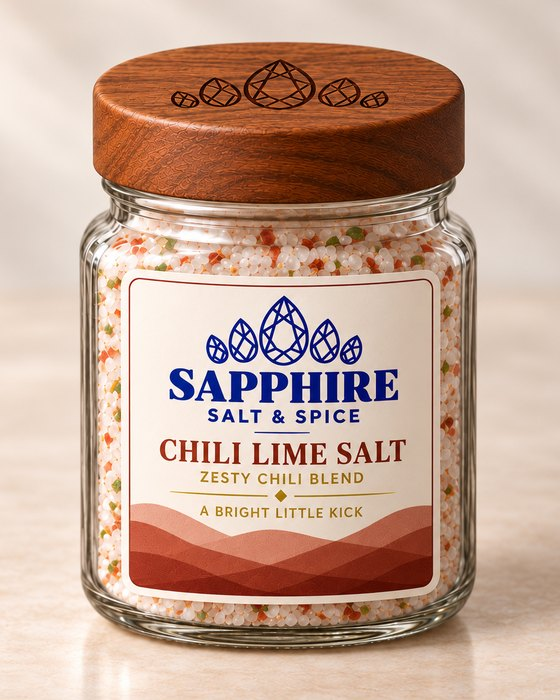
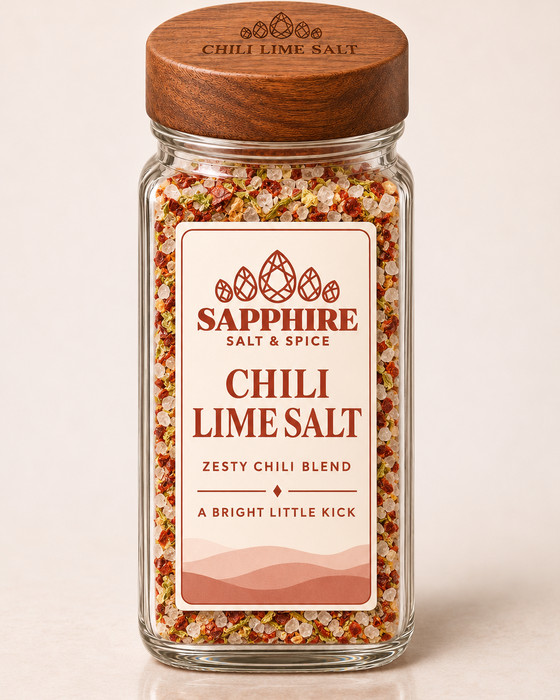
ChatGPT's 3 Nov images: seasoning jars, ingredient scenes, menu photos, Hydrate flavors (PR #37)

diff --git a/js/app.js b/js/app.js
@@ -1,4 +1,4 @@
-window.IMGV = {"fan.jpg":"4bd20a24","sapphire-crystal-macro.png":"56379ecd","belly-bliss-card.jpg":"2682bc25","belly-bliss-packets.jpg":"99d8fccb","soon-pepper-medley.jpg":"69950200","pure-packets-card.jpg":"514a77be","gut-health-card.jpg":"cbf2130e","stick-restore.png":"d8d4c3a2","lid-etch.jpg":"540cd5e7","gut-health-sticks-card.jpg":"fa1860d2","belly-bliss-pair.jpg":"4a7832e3","restore-packets-card.jpg":"0640d8fe","soon-onion-powder.jpg":"5f27d977","ingredient-hero.jpg":"582d3d5f","lifestyle-avocado.jpg":"b108546f","soon-sweet-paprika.jpg":"090bf87a","pure-family.jpg":"2946f8b1","lifestyle-eggs.jpg":"da37c9de","soon-white-pepper.jpg":"0316aa06","hydrate-sticks.jpg":"f5563ac3","gut-health-family.jpg":"6e67ff0e","gut-health-pair.jpg":"ed1980f8","soon-pink-pepper.jpg":"a677f5e0","stand-blank.jpg":"e0f1c63f","kindness-card.jpg":"5f1976d1","hydrate-card.jpg":"43647c4e","soon-garlic.jpg":"18ed38af","soon-turmeric.jpg":"0265d0bd","pure-sticks-card.jpg":"02b219b8","restore-16oz.jpg":"570e5e21","logo-ss-stacked.png":"ff12e03b","refill-bulk.jpg":"cfefb6bf","giftbox.jpg":"3b233c64","caddy-card.jpg":"71f1cfd9","logo-ss-primary-gold.png":"022cc007","hydrate-pair.jpg":"9cf61681","soon-cinnamon.jpg":"ce8c6148","soon-truffle.jpg":"1abe84d5","apple-touch-icon.png":"19c18a29","soon-thyme.jpg":"817f7ab3","seasonings-crop.jpg":"9672862a","pure-sticks.jpg":"c9d2ac9c","crest-twotone.png":"d2446251","awaken-packets-card.jpg":"5b4b9317","seasonings-stand.jpg":"cf44b1fe","packet-hydrate.png":"ba79c3d2","hydrate-family.jpg":"256feff2","gut-health-sticks.jpg":"0cbc6205","soon-jalapeno.jpg":"3dd07c7b","soon-bay-leaves.jpg":"db9c0c11","soon-green-pepper.jpg":"fc230225","pure-16oz.jpg":"e4f33979","tiara-gold.png":"794e6e5c","set-16oz.jpg":"63f27cf3","stand-crop.jpg":"ffd07277","soon-ancho.jpg":"69529dc2","soon-smoked.jpg":"60441619","hydrate-4oz.jpg":"f8396b8c","fan-card.jpg":"bed2c539","soon-cumin.jpg":"4c6bc6af","soon-chili-lime.jpg":"26c60e06","logo-ss-primary.png":"2cd1fef4","soon-chipotle.jpg":"9aafce66","jar-holes.png":"28b1f05a","gut-health-packets.jpg":"128b955e","hero-stand.jpg":"3786e927","belly-bliss-packets-card.jpg":"a3749ab3","soon-citrus.jpg":"72d3935c","pallet.jpg":"f8aa1f46","packet-pure.png":"a79821d8","packet-awaken.png":"97d2a352","himalayan-pair.jpg":"82f3c714","restore-family.jpg":"23c195dd","awaken-pair.jpg":"1dc5426b","lifestyle-steak.jpg":"c58aa8d1","belly-bliss-sticks.jpg":"9fd1f641","pure-4oz.jpg":"613a0902","logo-white.png":"354016ef","australian-ocean-salt-detail.png":"34a71558","hydrate-packets.jpg":"dd3552da","stand-rear.jpg":"6f8a9608","leaf-shadow.png":"08bfeffb","stick-gut-health.png":"fa33d30e","refill-card.jpg":"a37bc902","favicon.png":"854864cd","soon-chili-powder.jpg":"80e823f5","gut-health-16oz.jpg":"7867e404","stick-belly-bliss.png":"e28f9cb0","soon-nutmeg.jpg":"d91d976d","awaken-card.jpg":"c025203e","packet-belly-bliss.png":"32b3cc9a","packaging-family-concept.jpg":"8869a472","stick-pure.png":"a5c6fa41","gut-health-packets-card.jpg":"4c24a9ec","pure-packets.jpg":"8e65265a","stick-hydrate.png":"41464cc2","logo-ss-primary-white.png":"d4a9b6b4","awaken-sticks.jpg":"413a8f65","belly-bliss-16oz.jpg":"999fd9cb","crest-navy.png":"89b06876","logo-ss-horizontal-white.png":"5b114f74","hydrate-sticks-card.jpg":"b3a81c63","utah-salt-pair.jpg":"ebb8fdff","belly-bliss-family.jpg":"d291fa5c","restore-sticks.jpg":"d69cda8e","sticks-card.jpg":"399f40aa","restore-pair.jpg":"2d805988","packet-restore.png":"7070f8b2","packet-gut-health.png":"517ea7f1","belly-bliss-sticks-card.jpg":"b9648dcc","restore-card.jpg":"7cf79049","hero-stand.json":"fda03603","crest-gold.png":"5e410528","giftcard.jpg":"4e9885c3","packets-band.jpg":"185e73f7","soon-cayenne.jpg":"43d739c4","awaken-6oz.jpg":"a5dd50c0","soon-crushed-red.jpg":"865e21c7","belly-bliss-4oz.jpg":"3e3ec429","awaken-solo.jpg":"00e95b9b","hydrate-16oz.jpg":"0e763460","awaken-family.jpg":"ece35424","soon-garden-herb.jpg":"31f651b4","soon-smoked-paprika.jpg":"ebe69424","pale-mineral-slab.png":"9abe724d","logo-twotone.png":"6dc98eb1","set-4oz.jpg":"6686b4ed","jar-holes-seasonings.png":"4b431384","pure-pair.jpg":"7c42955a","restore-packets.jpg":"b4939101","restore-4oz.jpg":"0bfee9c9","restore-sticks-card.jpg":"ceffe775","himalayan-pink-salt-macro.png":"770a7157","soon-ember-steak.jpg":"c4d34d90","crest-white.png":"eda292f5","giftbox-card.jpg":"9771f1df","awaken-packets.jpg":"f35db4ba","soon-ginger.jpg":"37c760fa","pure-card.jpg":"761f2cfd","spices-crop.jpg":"42b6c824","year-of-salt.jpg":"2e80303c","soon-awaken-pepper.jpg":"4f2590b5","utah-bonneville-overhead-texture.png":"51b4fe6a","tiara-white.png":"e21e0690","tiara-blue.png":"53de983b","soon-oregano.jpg":"4c256f0f","awaken-sticks-card.jpg":"272c19da","hydrate-packets-card.jpg":"74a64c1e","spices-stand.jpg":"fb20be6d","caddy.jpg":"301036b0","logo-green.png":"864eea5a","stand-blank3.jpg":"248af578","logo-ss-horizontal.png":"e4c3230e","soon-garlic-powder.jpg":"38677805","logo-navy.png":"1c46e4ff","stick-awaken.png":"2fda3b26","gut-health-4oz.jpg":"6d4d398b","ingredients/potassium-chloride.jpg":"1d71df9c","ingredients/psyllium-husk.jpg":"c7489dc0","ingredients/taurine.jpg":"51a12a8b","ingredients/l-citrulline.jpg":"64dd24ba","ingredients/golden-flax.jpg":"fe2061fb","ingredients/white-chia.jpg":"0a57886b","ingredients/acacia-fiber.jpg":"dcbc5a9c","ingredients/magnesium-glycinate.jpg":"2dffe126","ingredients/l-theanine.jpg":"9b52bc07","ingredients/l-glutamine.jpg":"72efd724","ingredients/tapioca-starch.jpg":"f285dd65","ingredients/magnesium-malate.jpg":"ac3bdcf2","ingredients/australian-sea-salt.jpg":"9a8058c2","future/steakhouse-kit.jpg":"e90d3554","future/coffee.jpg":"c636fca3","future/tote.jpg":"a5a2e606","future/salt-flakes.jpg":"d8230b2e","future/utah-honey.jpg":"d31b568a","future/salted-nuts.jpg":"4acadadd","future/hydrate-charge.jpg":"cfb6cf97","future/protein.jpg":"92e1ccf1","future/test-kitchen.jpg":"644cc783","future/olive-oil.jpg":"aab5e01b","future/capsules.jpg":"8dfd3206","future/walnut-shakers.jpg":"584f0e67","future/salt-cellar.jpg":"d9b73311","future/creatine.jpg":"b0365887","future/hydrate-drink.jpg":"d99a1b9b","future/cap.jpg":"2cc89eb6","future/hot-honey.jpg":"2df18db5","future/apron.jpg":"285e850c","future/cap-trucker.jpg":"fe8fa2ad","future/grinder.jpg":"305deb71","future/tea.jpg":"612934d5","future/trace-minerals.jpg":"19f9b85c"};
+window.IMGV = {"fan.jpg":"4bd20a24","sapphire-crystal-macro.png":"56379ecd","belly-bliss-card.jpg":"2682bc25","belly-bliss-packets.jpg":"99d8fccb","soon-pepper-medley.jpg":"69950200","pure-packets-card.jpg":"514a77be","gut-health-card.jpg":"cbf2130e","stick-restore.png":"d8d4c3a2","lid-etch.jpg":"540cd5e7","gut-health-sticks-card.jpg":"fa1860d2","belly-bliss-pair.jpg":"4a7832e3","restore-packets-card.jpg":"0640d8fe","soon-onion-powder.jpg":"5f27d977","ingredient-hero.jpg":"582d3d5f","lifestyle-avocado.jpg":"b108546f","soon-sweet-paprika.jpg":"090bf87a","pure-family.jpg":"2946f8b1","lifestyle-eggs.jpg":"da37c9de","soon-white-pepper.jpg":"0316aa06","hydrate-sticks.jpg":"f5563ac3","gut-health-family.jpg":"6e67ff0e","gut-health-pair.jpg":"ed1980f8","soon-pink-pepper.jpg":"a677f5e0","stand-blank.jpg":"e0f1c63f","kindness-card.jpg":"5f1976d1","hydrate-card.jpg":"43647c4e","soon-garlic.jpg":"dabde5be","soon-turmeric.jpg":"0265d0bd","pure-sticks-card.jpg":"02b219b8","restore-16oz.jpg":"570e5e21","logo-ss-stacked.png":"ff12e03b","refill-bulk.jpg":"cfefb6bf","giftbox.jpg":"3b233c64","caddy-card.jpg":"71f1cfd9","logo-ss-primary-gold.png":"022cc007","hydrate-pair.jpg":"9cf61681","soon-cinnamon.jpg":"ce8c6148","soon-truffle.jpg":"94cda160","apple-touch-icon.png":"19c18a29","soon-thyme.jpg":"817f7ab3","seasonings-crop.jpg":"9672862a","pure-sticks.jpg":"c9d2ac9c","crest-twotone.png":"d2446251","awaken-packets-card.jpg":"5b4b9317","seasonings-stand.jpg":"cf44b1fe","packet-hydrate.png":"ba79c3d2","hydrate-family.jpg":"256feff2","gut-health-sticks.jpg":"0cbc6205","soon-jalapeno.jpg":"3dd07c7b","soon-bay-leaves.jpg":"db9c0c11","soon-green-pepper.jpg":"fc230225","pure-16oz.jpg":"e4f33979","tiara-gold.png":"794e6e5c","set-16oz.jpg":"63f27cf3","stand-crop.jpg":"ffd07277","soon-ancho.jpg":"69529dc2","soon-smoked.jpg":"376bc961","soon-black-phoenix.jpg":"aa176cf3","hydrate-4oz.jpg":"f8396b8c","fan-card.jpg":"bed2c539","soon-cumin.jpg":"4c6bc6af","soon-chili-lime.jpg":"9783aaca","logo-ss-primary.png":"2cd1fef4","soon-chipotle.jpg":"9aafce66","jar-holes.png":"28b1f05a","gut-health-packets.jpg":"128b955e","hero-stand.jpg":"3786e927","belly-bliss-packets-card.jpg":"a3749ab3","soon-citrus.jpg":"2d9bd778","pallet.jpg":"f8aa1f46","packet-pure.png":"a79821d8","packet-awaken.png":"97d2a352","himalayan-pair.jpg":"82f3c714","restore-family.jpg":"23c195dd","awaken-pair.jpg":"1dc5426b","lifestyle-steak.jpg":"c58aa8d1","belly-bliss-sticks.jpg":"9fd1f641","pure-4oz.jpg":"613a0902","logo-white.png":"354016ef","australian-ocean-salt-detail.png":"34a71558","hydrate-packets.jpg":"dd3552da","stand-rear.jpg":"6f8a9608","leaf-shadow.png":"08bfeffb","stick-gut-health.png":"fa33d30e","refill-card.jpg":"a37bc902","favicon.png":"854864cd","soon-chili-powder.jpg":"80e823f5","gut-health-16oz.jpg":"7867e404","stick-belly-bliss.png":"e28f9cb0","soon-nutmeg.jpg":"d91d976d","awaken-card.jpg":"c025203e","packet-belly-bliss.png":"32b3cc9a","packaging-family-concept.jpg":"8869a472","stick-pure.png":"a5c6fa41","gut-health-packets-card.jpg":"4c24a9ec","pure-packets.jpg":"8e65265a","stick-hydrate.png":"41464cc2","logo-ss-primary-white.png":"d4a9b6b4","awaken-sticks.jpg":"413a8f65","belly-bliss-16oz.jpg":"999fd9cb","crest-navy.png":"89b06876","logo-ss-horizontal-white.png":"5b114f74","hydrate-sticks-card.jpg":"b3a81c63","utah-salt-pair.jpg":"ebb8fdff","belly-bliss-family.jpg":"d291fa5c","restore-sticks.jpg":"d69cda8e","sticks-card.jpg":"399f40aa","restore-pair.jpg":"2d805988","packet-restore.png":"7070f8b2","packet-gut-health.png":"517ea7f1","belly-bliss-sticks-card.jpg":"b9648dcc","restore-card.jpg":"7cf79049","hero-stand.json":"fda03603","crest-gold.png":"5e410528","giftcard.jpg":"4e9885c3","packets-band.jpg":"185e73f7","soon-cayenne.jpg":"43d739c4","awaken-6oz.jpg":"a5dd50c0","soon-crushed-red.jpg":"865e21c7","belly-bliss-4oz.jpg":"3e3ec429","awaken-solo.jpg":"00e95b9b","hydrate-16oz.jpg":"0e763460","awaken-family.jpg":"ece35424","soon-garden-herb.jpg":"d769901e","soon-smoked-paprika.jpg":"ebe69424","pale-mineral-slab.png":"9abe724d","logo-twotone.png":"6dc98eb1","set-4oz.jpg":"6686b4ed","jar-holes-seasonings.png":"4b431384","pure-pair.jpg":"7c42955a","restore-packets.jpg":"b4939101","restore-4oz.jpg":"0bfee9c9","restore-sticks-card.jpg":"ceffe775","himalayan-pink-salt-macro.png":"770a7157","soon-ember-steak.jpg":"f1c8fb56","crest-white.png":"eda292f5","giftbox-card.jpg":"9771f1df","awaken-packets.jpg":"f35db4ba","soon-ginger.jpg":"37c760fa","pure-card.jpg":"761f2cfd","spices-crop.jpg":"42b6c824","year-of-salt.jpg":"2e80303c","soon-awaken-pepper.jpg":"4f2590b5","utah-bonneville-overhead-texture.png":"51b4fe6a","tiara-white.png":"e21e0690","tiara-blue.png":"53de983b","soon-oregano.jpg":"4c256f0f","awaken-sticks-card.jpg":"272c19da","hydrate-packets-card.jpg":"74a64c1e","spices-stand.jpg":"fb20be6d","caddy.jpg":"301036b0","logo-green.png":"864eea5a","stand-blank3.jpg":"248af578","logo-ss-horizontal.png":"e4c3230e","soon-garlic-powder.jpg":"38677805","logo-navy.png":"1c46e4ff","stick-awaken.png":"2fda3b26","gut-health-4oz.jpg":"6d4d398b","menu/blends-spread.jpg":"1eee2eeb","menu/supplements-spread.jpg":"b9ce885f","menu/spices-spread.jpg":"c8af64d0","menu/seasonings-spread.jpg":"15e7869a","ingredients/potassium-chloride.jpg":"633163d3","ingredients/psyllium-husk.jpg":"c679006d","ingredients/taurine.jpg":"51a12a8b","ingredients/l-citrulline.jpg":"64dd24ba","ingredients/golden-flax.jpg":"741b4144","ingredients/white-chia.jpg":"1d077393","ingredients/acacia-fiber.jpg":"5bbf5af1","ingredients/magnesium-glycinate.jpg":"2dffe126","ingredients/l-theanine.jpg":"9b52bc07","ingredients/l-glutamine.jpg":"72efd724","ingredients/tapioca-starch.jpg":"b94af639","ingredients/magnesium-malate.jpg":"ac3bdcf2","ingredients/australian-sea-salt.jpg":"9a8058c2","scene/bay-leaves.jpg":"f5ba62af","scene/chili-lime.jpg":"af353c37","scene/nutmeg.jpg":"a8280958","scene/truffle.jpg":"dbd0f8ed","scene/thyme.jpg":"163ad7c8","scene/crushed-red.jpg":"a40d2262","scene/cumin.jpg":"82ea5558","scene/garden-herb.jpg":"a92635ae","scene/ancho.jpg":"92e0365b","scene/ginger.jpg":"979e8c8b","scene/ember-steak.jpg":"c8dec246","scene/awaken-pepper.jpg":"f142accc","scene/chili-powder.jpg":"89847f8b","scene/garlic-powder.jpg":"449c8c9e","scene/pepper-medley.jpg":"554d91e7","scene/pink-pepper.jpg":"925d5354","scene/smoked-paprika.jpg":"af05b0af","scene/sweet-paprika.jpg":"1312f2e8","scene/cayenne.jpg":"4caa7eca","scene/garlic.jpg":"d5ab772c","scene/cinnamon.jpg":"1e41e72d","scene/turmeric.jpg":"5631e71f","scene/green-pepper.jpg":"74a12f19","scene/oregano.jpg":"9935dad1","scene/smoked.jpg":"9756abd8","scene/jalapeno.jpg":"81d1e6b0","scene/black-phoenix.jpg":"1e2efde4","scene/onion-powder.jpg":"c8368896","scene/white-pepper.jpg":"51ea13ad","scene/citrus.jpg":"60c8bd66","scene/chipotle.jpg":"bdc6985b","future/steakhouse-kit.jpg":"e90d3554","future/coffee.jpg":"c636fca3","future/tote.jpg":"a5a2e606","future/salt-flakes.jpg":"d8230b2e","future/utah-honey.jpg":"d31b568a","future/hydrate-drink-berry.jpg":"803806ec","future/hydrate-drink-ruby-grapefruit.jpg":"6e240b1d","future/salted-nuts.jpg":"4acadadd","future/hydrate-charge.jpg":"cfb6cf97","future/protein.jpg":"92e1ccf1","future/test-kitchen.jpg":"644cc783","future/olive-oil.jpg":"aab5e01b","future/hydrate-drink-lime.jpg":"8ef2c160","future/capsules.jpg":"8dfd3206","future/walnut-shakers.jpg":"584f0e67","future/salt-cellar.jpg":"d9b73311","future/creatine.jpg":"b0365887","future/hydrate-drink.jpg":"9b7bf9c1","future/hydrate-drink-lemonade.jpg":"90c5c9cf","future/cap.jpg":"2cc89eb6","future/hot-honey.jpg":"2df18db5","future/apron.jpg":"285e850c","future/cap-trucker.jpg":"fe8fa2ad","future/hydrate-drink-watermelon-mint.jpg":"7217915f","future/grinder.jpg":"305deb71","future/tea.jpg":"612934d5","future/hydrate-drink-family.jpg":"37f9dbba","future/trace-minerals.jpg":"19f9b85c"};
 /* Sapphire Salt — shared layout, cart and page renderers */
 const $ = (s, el = document) => el.querySelector(s);
 const $$ = (s, el = document) => [...el.querySelectorAll(s)];
@@ -137,13 +137,13 @@ const MEGA = () => [   // built on first use: it needs helpers defined further d
   { title: 'Salt Blends', href: 'shop.html#blends-sec', items: BLENDS.filter(b => b.cat === 'blends').map(b => ({ name: b.name, sub: b.inside || b.tag, href: `product.html?p=${b.slug}`, stack: insideOf(b), ring: b.color })) },
   { title: 'Seasonings & Spices', href: 'shop.html#spices', items: [
       { name: 'Awaken Pepper', sub: 'Tellicherry peppercorns', href: 'product.html?p=awaken-pepper', img: 'img/soon-awaken-pepper.jpg', jar: true },
-      { name: 'Seasonings', sub: `${SEASONINGS.filter(x => x.cat === 'seasonings').length} flavored salts · soon`, href: 'shop.html#seasonings', grid: spread(['ember-steak', 'garden-herb', 'chili-lime', 'smoked']) },
-      { name: 'Spices', sub: `${SEASONINGS.filter(x => x.cat === 'spices').length - 1} more · soon`, href: 'shop.html#spices', grid: spread(['cayenne', 'turmeric', 'pink-pepper', 'green-pepper']) },
+      { name: 'Seasonings', sub: `${SEASONINGS.filter(x => x.cat === 'seasonings').length} flavored salts · soon`, href: 'shop.html#seasonings', img: 'img/menu/seasonings-spread.jpg', round: true },
+      { name: 'Spices', sub: `${SEASONINGS.filter(x => x.cat === 'spices').length - 1} more · soon`, href: 'shop.html#spices', img: 'img/menu/spices-spread.jpg', round: true },
       { name: 'Collect the shelf', sub: `Any 10, 20 or all ${SEASONINGS.length} · save up to 20%`, href: 'shop.html#collection', grid: spread(['chipotle', 'white-pepper', 'thyme', 'cinnamon']) },
       { name: 'Test Kitchen', sub: 'Taste it first · $3', href: 'product.html?p=test-kitchen', color: '#315B91' }] },
   { title: 'Hydration & Supplements', href: 'shop.html#supplements', items: [
       { name: 'Hydrate Salt', sub: 'Sodium, potassium & magnesium', href: 'product.html?p=hydrate', stack: insideOf(findBlend('hydrate')), ring: findBlend('hydrate').color },
-      ...COMING.filter(c => c.group === 'supplements').slice(0, 4).map(c => ({ name: c.name, sub: 'Coming soon', href: `product.html?p=${c.slug}`, color: c.color }))] },
+      ...COMING.filter(c => c.group === 'supplements').slice(0, 4).map(c => ({ name: c.name, sub: 'Coming soon', href: `product.html?p=${c.slug}`, color: c.color, img: c.slug === 'hydrate-drink' ? c.img : null }))] },
   { title: 'Gifts & Sets', href: 'gifts.html', items: ['kindness', 'gift-box', 'year-of-salt', 'gift-card', 'display-collection'].map(k => { const e = findExtra(k); return { name: e.name, sub: money(e.price) + (k === 'gift-card' ? '+' : ''), href: `product.html?p=${k}`, img: extraThumb(e) }; }) },
 ];
 function megaMenu() {
@@ -382,10 +382,14 @@ function shelfGrid(cat) {
   $('.seas-tabs', root).innerHTML = [['all', 'All'], ...C.subs].map(([k, t], i) => `<button class="${i ? '' : 'on'}" data-g="${k}">${t}</button>`).join('');
   grid.innerHTML = items.map(x => { const e = x.live && findExtra(x.slug);
     return `<article class="seas" data-g="${x.sub}" style="--c:${x.color}">
-    <div class="ph">${x.img ? `<img src="${x.img}" alt="${x.name} in a small glass jar${x.live ? '' : ' (packaging concept)'}" loading="lazy">` : conceptArt(x.name, x.gold, x.color, 'tall')}${x.live ? '' : '<span class="soon-tag">Concept</span>'}</div>
+    <div class="ph">${x.img ? `<img src="${x.img}" alt="${x.name} in a small glass jar${x.live ? '' : ' (packaging concept)'}" loading="lazy" class="seas-photo">` : conceptArt(x.name, x.gold, x.color, 'tall')}${x.scene && x.img ? `<img class="seas-scene" src="${x.scene}" alt="" loading="lazy"><button class="seas-photo-toggle" type="button" aria-pressed="false" aria-label="Show ${x.name} with its ingredients"><i></i><i></i></button>` : ''}${x.live ? '' : '<span class="soon-tag">Concept</span>'}</div>
     <h3>${x.name}</h3><small>${x.gold}</small>${x.inside ? `<small class="inside">${x.inside}</small>` : ''}${!x.live && x.price ? `<small class="plan">Planned · ${money(x.price)} for 4 oz</small>` : ''}
     ${e ? `<a class="btn" href="product.html?p=${x.slug}">Shop · ${money(e.price)}</a>` : `<button class="want" type="button" aria-pressed="false" data-s="${x.slug}">I’d buy this</button>`}${strip([x.little, '4 oz glass jar', 'Walnut lid'])}</article>`; }).join('');
   const count = () => n.textContent = want.size ? `${want.size} picked — we’ll email you when ${want.size > 1 ? 'they land' : 'it lands'}.` : 'Tap “I’d buy this” on any you want. We’ll make the most-wanted first.';
+  // Cuso's-style second photo: the jar with what's inside beside it, on hover (desktop) or the button (touch, keyboard)
+  $$('.seas-photo-toggle', grid).forEach(b => b.closest('.ph').onclick = () => {   // the dots, or a tap anywhere on the photo
+    const on = b.getAttribute('aria-pressed') !== 'true'; b.setAttribute('aria-pressed', on); b.closest('.ph').classList.toggle('show', on);
+  });
   $$('.want', grid).forEach(b => b.onclick = () => {
     const on = !want.has(b.dataset.s); on ? want.add(b.dataset.s) : want.delete(b.dataset.s);
     b.setAttribute('aria-pressed', on); b.textContent = on ? '✓ On my list' : 'I’d buy this'; count();
@@ -785,7 +789,7 @@ const R = {
           <label><input type="radio" name="pt" value="sub"> Subscribe & save — ships every 2 months <span class="save">Save ${SS.subscribeOff * 100}%</span></label></div>`;
       ingHTML = b.ingredients.map(i => { const g = INGREDIENTS.find(x => x.name === i.name); return `<h4 class="wi"><img src="${g.img}" alt="" loading="lazy"><span><small>${i.title}</small><a href="ingredient.html?i=${g.slug}">${i.name}</a></span></h4><p class="no-ing">${i.desc} <a class="link sm" href="ingredient.html?i=${g.slug}">Learn more</a></p>`; }).join('') + `<p><a class="link" href="ingredients.html">All ingredients</a></p>`;
     } else {
-      imgs = e.kind === 'pepper' ? [['img/soon-awaken-pepper.jpg', ''], ['img/spices-crop.jpg', '']]   // 3 Nov label; the older AWAKENED shots are retired
+      imgs = e.kind === 'pepper' ? [['img/soon-awaken-pepper.jpg', ''], ['img/scene/awaken-pepper.jpg', ''], ['img/spices-crop.jpg', '']]   // 3 Nov label; the older AWAKENED shots are retired
         : e.kind === 'stand' ? [['img/stand-crop.jpg', ''], ['img/hero-stand.jpg', ''], ['img/stand-rear.jpg', ''], ['img/set-4oz.jpg', ''], ['img/set-16oz.jpg', '']]
         : e.kind === 'gift' ? [['img/giftbox.jpg', ''], ['img/set-4oz.jpg', ''], ['img/fan.jpg', '']]
         : e.kind === 'packets' ? [['img/fan.jpg', ''], ['img/packets-band.jpg', ''], ['img/pure-family.jpg', ''], ['img/caddy.jpg', '']]

diff --git a/js/data.js b/js/data.js
@@ -204,7 +204,9 @@ const COMING = [
   { slug: 'table-packets', name: 'Walnut Packet Holders', sub: 'Restaurants, cafés & your own table', color: '#5A3B22', group: 'kitchen', img: 'img/caddy-card.jpg',
     line: 'Five walnut modules that match the display: sachets, travel sticks, napkins, a menu sign and a 4 oz jar holder. Each stands alone; hidden magnets join them side by side or front to back. Restaurants: ask on the Wholesale page.' },
   { slug: 'hydrate-drink', img: 'img/future/hydrate-drink.jpg', name: 'Hydrate Drink Mix', sub: 'Electrolyte sticks · 30 in a resealable pouch', color: '#315B91', group: 'supplements', shelf: 'electrolytes', icon: 'pouch',
-    line: 'The Hydrate minerals made for water instead of food: tear a stick, pour it in your bottle, shake. Unflavored first, with a light citrus to follow.' },
+    line: 'The Hydrate minerals made for water instead of food: tear a stick, pour it in your bottle, shake. Unflavored, plus five naturally flavored: Lemonade, Watermelon Mint, Ruby Grapefruit, Lime and Berry.',
+    imageVariants: [['', 'Unflavored'], ['family', 'All six flavors'], ['lemonade', 'Lemonade'], ['watermelon-mint', 'Watermelon Mint'], ['ruby-grapefruit', 'Ruby Grapefruit'], ['lime', 'Lime'], ['berry', 'Berry']]
+      .map(([f, t]) => ({ src: `img/future/hydrate-drink${f ? '-' + f : ''}.jpg`, alt: `Hydrate Drink Mix, ${t} (packaging concept)` })) },   // flavors: Jimmy, 3 Nov (PR #36)
   { slug: 'salt-flakes', img: 'img/future/salt-flakes.jpg', imageVariants: [{ src: 'img/future/salt-flakes.jpg', alt: 'Salt Flakes concept jar' }, { src: 'img/lifestyle-steak.jpg', alt: 'Finishing salt flakes beside a steak, serving illustration' }], name: 'Salt Flakes', sub: 'Finishing flakes · sea, smoked and Utah', color: '#123C9C', icon: 'flakes', group: 'pantry',
     line: 'Big, crisp pyramid flakes for the last pinch: on steak, chocolate chip cookies, tomatoes and caramel.' },
   { slug: 'salted-nuts', img: 'img/future/salted-nuts.jpg', name: 'Salted Nuts', sub: 'Assortments · seasoned with our salts', color: '#8A6236', icon: 'nuts', group: 'pantry',
@@ -302,7 +304,7 @@ const FUTURE = {
    packaging concepts. Gold descriptors are the label copy; little lines are proposed creative copy.
    cat: seasonings (flavored salts) or spices (peppercorns, chiles); sub: the shelf's sub-category.
    price: proposed 4 oz price, each set on its own, a little under Erewhon where margin allows (../SPICE-PRICING.md) */
-const NO_PHOTO = new Set(['black-phoenix']); // concept art until ChatGPT's jar lands (docs/CHATGPT-IMAGE-LIST.md §1)
+const NO_PHOTO = new Set(); // All current seasoning and spice jars now have concept photography.
 const SEASONINGS = [
   { slug: 'awaken-pepper', name: 'Awaken Pepper', cat: 'spices', sub: 'pepper', gold: 'Single-origin Tellicherry peppercorns', little: 'Awaken every bite', color: '#2B2F38', live: true },
   // Jimmy, 3 Nov: our own all-purpose rub, close to Cuso's Dirt without the sugar; charcoal kept. Named Black Phoenix.
@@ -337,7 +339,8 @@ const SEASONINGS = [
   { slug: 'thyme', name: 'Thyme', cat: 'spices', sub: 'herb', price: 8, gold: 'Dried garden thyme', little: 'Roasts and soups', color: '#6A7A44' },
   { slug: 'bay-leaves', name: 'Bay Leaves', cat: 'spices', sub: 'herb', price: 9, gold: 'Whole Turkish bay', little: 'Slow-simmer magic', color: '#4E6A3A' },
   { slug: 'jalapeno', name: 'Jalapeño', cat: 'spices', sub: 'chile', price: 10, gold: 'Bright green chili', little: 'A lively little kick', color: '#4E7A32' },
-].map(x => ({ ...x, img: NO_PHOTO.has(x.slug) ? null : `img/soon-${x.slug}.jpg` }));
+].map(x => ({ ...x, img: NO_PHOTO.has(x.slug) ? null : `img/soon-${x.slug}.jpg`,
+  scene: `img/scene/${x.slug}.jpg` }));   // jar beside what's inside: 8 seasonings (PR #30), 23 spices (PR #31)
 /* Collect the shelf (Jimmy, 3 Nov): buy seasonings and spices in tens, or the whole shelf. No spice wall: the walnut
    salt display is the only display product for now. proposed: discounts are Claude's suggestion, for Ryan to set. */
 const planPrice = x => x.price || (EXTRAS.find(e => e.slug === x.slug) || {}).price || 0;
@@ -366,16 +369,16 @@ const ING_INFO = {
     what: 'Sodium chloride crystallised from seawater, with the trace minerals that come with it.',
     from: 'The cold coastal waters of Australia. Harvest site and producer: Ryan to confirm.',
     how: ['Seawater evaporated by sun and wind into crystals [to confirm]', 'Washed, dried and milled to a fine, even grain [to confirm]', 'Every lot tested before blending [proposed standard]'] },
-  'Psyllium Husk': { slug: 'psyllium-husk', img: 'img/ingredients/psyllium-husk.jpg', imgNote: 'Ingredient illustration; supplier material and milling may vary.', kind: 'Plant fiber', aka: ['psyllium'],
+  'Psyllium Husk': { slug: 'psyllium-husk', img: 'img/ingredients/psyllium-husk.jpg', imgNote: "Plantago ovata seed spikes; the husk is the seed's thin outer coat.", kind: 'Plant fiber', aka: ['psyllium'],
     what: 'The outer husk of seeds from the Plantago ovata plant — a soluble fiber that has been part of kitchens and wellness routines for generations.',
     from: 'Grown mainly in India. Supplier: Ryan to confirm.' },
-  'White Chia Seed': { slug: 'white-chia', img: 'img/ingredients/white-chia.jpg', imgNote: 'Whole white chia seeds shown; the blend uses milled chia.', kind: 'Plant fiber', aka: ['white chia', 'chia'],
+  'White Chia Seed': { slug: 'white-chia', img: 'img/ingredients/white-chia.jpg', imgNote: "Whole white chia and its seed head; the blend uses it milled.", kind: 'Plant fiber', aka: ['white chia', 'chia'],
     what: 'Seeds of Salvia hispanica, milled with most of the oil pressed out, leaving a fine flour rich in fiber and plant protein.',
     from: 'Chia is grown mainly in South America and Mexico. Supplier: Ryan to confirm.' },
-  'Golden Flax Seed': { slug: 'golden-flax', img: 'img/ingredients/golden-flax.jpg', imgNote: 'Whole golden flax seeds shown; the blend uses milled flax.', kind: 'Plant fiber', aka: ['golden flax', 'flax'],
+  'Golden Flax Seed': { slug: 'golden-flax', img: 'img/ingredients/golden-flax.jpg', imgNote: "Whole golden flax and seed bolls; the blend uses it milled.", kind: 'Plant fiber', aka: ['golden flax', 'flax'],
     what: 'Milled seeds of the golden variety of Linum usitatissimum, a whole-food source of fiber.',
     from: 'Grown in North America, among other places. Supplier: Ryan to confirm.' },
-  'Acacia Fiber': { slug: 'acacia-fiber', img: 'img/ingredients/acacia-fiber.jpg', imgNote: 'Ingredient illustration; supplier material and milling may vary.', kind: 'Plant fiber', aka: ['acacia fiber', 'acacia'],
+  'Acacia Fiber': { slug: 'acacia-fiber', img: 'img/ingredients/acacia-fiber.jpg', imgNote: "Raw acacia gum, the dried tree sap acacia fiber is made from.", kind: 'Plant fiber', aka: ['acacia fiber', 'acacia'],
     what: 'A soluble fiber from the dried sap of Acacia senegal trees, also known as gum arabic. It dissolves without changing taste.',
     from: 'Harvested mainly in Africa’s Sahel region. Supplier: Ryan to confirm.' },
   'L-Glutamine': { slug: 'l-glutamine', img: 'img/ingredients/l-glutamine.jpg', imgNote: 'Ingredient illustration; supplier material and milling may vary.', kind: 'Amino acid', aka: ['L-glutamine', 'glutamine'],
@@ -390,7 +393,7 @@ const ING_INFO = {
   'L-Theanine': { slug: 'l-theanine', img: 'img/ingredients/l-theanine.jpg', imgNote: 'Ingredient illustration; supplier material and milling may vary.', kind: 'Amino acid', aka: ['L-theanine', 'theanine'],
     what: 'An amino acid found naturally in tea leaves.',
     from: 'Typically made by fermentation. Supplier: Ryan to confirm.' },
-  'Potassium Chloride': { slug: 'potassium-chloride', img: 'img/ingredients/potassium-chloride.jpg', imgNote: 'Ingredient illustration; supplier material and milling may vary.', kind: 'Mineral', aka: ['potassium chloride', 'potassium'],
+  'Potassium Chloride': { slug: 'potassium-chloride', img: 'img/ingredients/potassium-chloride.jpg', imgNote: "Potassium chloride crystals beside raw sylvite, the natural mineral potassium chloride is refined from.", kind: 'Mineral', aka: ['potassium chloride', 'potassium'],
     what: 'A naturally occurring mineral salt — the potassium counterpart of table salt, used to add potassium alongside sodium.',
     from: 'Mined from ancient mineral deposits. Supplier: Ryan to confirm.' },
   'Magnesium Malate': { slug: 'magnesium-malate', img: 'img/ingredients/magnesium-malate.jpg', imgNote: 'Ingredient illustration; supplier material and milling may vary.', kind: 'Mineral', aka: ['magnesium malate'],
@@ -399,7 +402,7 @@ const ING_INFO = {
   'L-Citrulline': { slug: 'l-citrulline', img: 'img/ingredients/l-citrulline.jpg', imgNote: 'Ingredient illustration; supplier material and milling may vary.', kind: 'Amino acid', aka: ['L-citrulline', 'citrulline'],
     what: 'An amino acid first found in watermelon. (Ryan’s ingredient notes say Citrulline Malate — label and site must match.)',
     from: 'Typically made by fermentation. Supplier: Ryan to confirm.' },
-  'Tapioca Starch': { slug: 'tapioca-starch', img: 'img/ingredients/tapioca-starch.jpg', imgNote: 'Ingredient illustration; supplier material and milling may vary.', kind: 'Flow aid', aka: ['tapioca starch', 'tapioca'],
+  'Tapioca Starch': { slug: 'tapioca-starch', img: 'img/ingredients/tapioca-starch.jpg', imgNote: 'Cassava root, the plant tapioca starch is made from.', kind: 'Flow aid', aka: ['tapioca starch', 'tapioca'],
     what: 'A fine starch from the cassava root, used in tiny amounts so the blend pours freely instead of clumping.',
     from: 'Cassava is grown across the tropics. Supplier: Ryan to confirm.' },
 };

diff --git a/shop.html b/shop.html
@@ -8,13 +8,13 @@
 <link rel="icon" href="img/favicon.png?v=854864cd"><link rel="apple-touch-icon" href="img/apple-touch-icon.png?v=19c18a29">
 <link rel="preconnect" href="https://fonts.googleapis.com"><link rel="preconnect" href="https://fonts.gstatic.com" crossorigin>
 <link href="https://fonts.googleapis.com/css2?family=Cormorant+Garamond:ital,wght@0,400;0,500;0,600;0,700;1,400;1,500&family=Inter:wght@400;500;600;700&display=swap" rel="stylesheet">
-<link rel="stylesheet" href="css/style.css?v=58"><link rel="stylesheet" href="css/checkout.css?v=4">
+<link rel="stylesheet" href="css/style.css?v=59"><link rel="stylesheet" href="css/checkout.css?v=4">
 </head>
 <body data-page="shop">
 
 <div class="page-head wrap"><span class="eyebrow">Shop</span><h1>Salt, and everything after it</h1>
 <p class="lede" style="margin:0 auto">Pure salts, salt blends, and the seasonings and spices on their way. Jars for the table and stove, sticks for the bag, packets for the table. Free shipping over $45.</p></div>
-<nav class="catbar" aria-label="Shop by category"><div class="wrap"><a href="#pure" class="on">Pure Salts</a><a href="#blends-sec">Salt Blends</a><a href="#seasonings">Seasonings <em>Soon</em></a><a href="#spices">Spices <em>Soon</em></a><a href="#collection">Collect the shelf</a><a href="#supplements">Hydration</a><a href="#test-kitchen">Test Kitchen</a><a href="#extras-wrap">Sets & Gifts</a><a href="#soon">Coming soon</a></div></nav>
+<nav class="catbar" aria-label="Shop by category"><div class="wrap"><a href="#pure" class="on"><img src="img/australian-ocean-salt-detail.png?v=34a71558" alt="">Pure Salts</a><a href="#blends-sec"><img src="img/menu/blends-spread.jpg?v=1eee2eeb" alt="">Salt Blends</a><a href="#seasonings"><img src="img/menu/seasonings-spread.jpg?v=15e7869a" alt="">Seasonings <em>Soon</em></a><a href="#spices"><img src="img/menu/spices-spread.jpg?v=c8af64d0" alt="">Spices <em>Soon</em></a><a href="#collection">Collect the shelf</a><a href="#supplements"><img src="img/menu/supplements-spread.jpg?v=b9ce885f" alt="">Hydration</a><a href="#test-kitchen">Test Kitchen</a><a href="#extras-wrap">Sets & Gifts</a><a href="#soon">Coming soon</a></div></nav>
 <section class="cat-sec" id="pure"><div class="wrap">
   <div class="section-head"><div><span class="eyebrow">Pure salts</span><h2 style="margin-top:12px">One salt, nothing added</h2></div>
     <p style="color:var(--muted);max-width:440px;margin:0">Pure Sea Salt, from the Australian coast, today. Saint Salt, from Utah’s Great Salt Lake, and Pink Mountain Salt, Himalayan pink salt, are next.</p></div>
@@ -60,6 +60,6 @@
   <div class="section-head"><div><span class="eyebrow">In the works</span><h2 style="margin-top:12px">Coming soon</h2></div>
     <p style="color:var(--muted);max-width:420px;margin:0">Caffeinated electrolytes, coffee, teas, table holders, refills and kitchen gear. Tap “Notify me” on anything you’d buy — it tells us what to make first.</p></div>
   <div class="seas-tabs" id="coming-tabs" role="tablist"></div><div class="grid4" id="coming"></div></div></section>
-<script src="js/data.js?v=60"></script><script src="js/app.js?v=62"></script>
+<script src="js/data.js?v=61"></script><script src="js/app.js?v=63"></script>
 </body>
 </html>

diff --git a/css/style.css b/css/style.css
@@ -762,6 +762,15 @@ h4.wi span{display:grid}
 .seas .ph{position:relative;width:100%;aspect-ratio:4/5;overflow:hidden;background:#EFE9DF}
 .seas .ph img{width:100%;height:100%;object-fit:cover;transition:transform .6s ease}
 .seas:hover .ph img{transform:scale(1.03)}
+.seas .ph .seas-scene{position:absolute;inset:0;opacity:0;transition:opacity .45s ease,transform .8s cubic-bezier(.2,.8,.2,1)}
+.seas .ph.show .seas-scene{opacity:1}
+@media (hover:hover){.seas:hover .ph .seas-scene{opacity:1}}
+.seas .ph:has(.seas-scene){cursor:pointer}
+.seas-photo-toggle{position:absolute;left:50%;bottom:8px;transform:translateX(-50%);z-index:2;display:flex;gap:5px;border:0;border-radius:10px;padding:5px 7px;background:rgba(247,243,234,.85);cursor:pointer}
+.seas-photo-toggle i{width:6px;height:6px;border-radius:50%;background:var(--navy);opacity:.25;transition:opacity .25s}
+.seas-photo-toggle[aria-pressed=false] i:first-child,.seas-photo-toggle[aria-pressed=true] i:last-child{opacity:1}
+@media (hover:hover){.seas:hover .seas-photo-toggle i:first-child{opacity:.25}.seas:hover .seas-photo-toggle i:last-child{opacity:1}}
+.seas-photo-toggle:focus-visible{outline:2px solid var(--c);outline-offset:3px}
 .seas .soon-tag{background:var(--c)}
 .seas h3{font-size:18px;margin:12px 10px 4px}
 .seas small{color:var(--muted);font:600 10px/1.4 var(--sans);letter-spacing:.12em;text-transform:uppercase;margin:0 12px 12px;flex:1}
@@ -820,6 +829,7 @@ h4.wi span{display:grid}
 .catbar .wrap{display:flex;gap:6px;overflow-x:auto;padding-block:10px;scrollbar-width:none}
 .catbar a{flex:none;padding:9px 16px;border-radius:999px;font:600 13px var(--sans);color:var(--ink);text-decoration:none;white-space:nowrap;transition:background .2s,color .2s}
 .catbar a.on{background:var(--navy);color:#fff}
+.catbar a{display:inline-flex;align-items:center;gap:7px}.catbar img{width:22px;height:22px;border-radius:50%;object-fit:cover;margin-left:-8px;background:#EFE9DF}
 .catbar em{font-style:normal;font-size:9px;letter-spacing:.14em;text-transform:uppercase;color:var(--gold);margin-left:4px}
 .cat-sec{scroll-margin-top:150px}.seas-wrap,#extras-wrap,#soon{scroll-margin-top:150px}
 .cat-sec .section-head{align-items:flex-end;gap:20px;flex-wrap:wrap}

diff --git a/faq.html b/faq.html
@@ -8,7 +8,7 @@
 <link rel="icon" href="img/favicon.png?v=854864cd"><link rel="apple-touch-icon" href="img/apple-touch-icon.png?v=19c18a29">
 <link rel="preconnect" href="https://fonts.googleapis.com"><link rel="preconnect" href="https://fonts.gstatic.com" crossorigin>
 <link href="https://fonts.googleapis.com/css2?family=Cormorant+Garamond:ital,wght@0,400;0,500;0,600;0,700;1,400;1,500&family=Inter:wght@400;500;600;700&display=swap" rel="stylesheet">
-<link rel="stylesheet" href="css/style.css?v=58"><link rel="stylesheet" href="css/checkout.css?v=4">
+<link rel="stylesheet" href="css/style.css?v=59"><link rel="stylesheet" href="css/checkout.css?v=4">
 </head>
 <body data-page="faq">
 
@@ -29,6 +29,6 @@
   <div class="box" id="contact"><span class="eyebrow">Contact</span><h3 style="margin-top:12px">Write to us</h3><p style="color:var(--muted)">Sapphire Salt L.L.C.<br>875 Iron Horse Dr. Suite A<br>Park City, UT 84098</p><a class="link" href="contact.html">Write to us</a> <span class="addr" style="display:block;margin-top:8px">hello@sapphiresalt.com</span></div>
   <div class="box"><span class="eyebrow">Stock it</span><h3 style="margin-top:12px">Become a stockist</h3><p style="color:var(--muted)">Starter kit with walnut display, 26 jars and 50 sample packs.</p><a class="link" href="wholesale.html">Wholesale</a></div>
 </div></section>
-<script src="js/data.js?v=60"></script><script src="js/app.js?v=62"></script>
+<script src="js/data.js?v=61"></script><script src="js/app.js?v=63"></script>
 </body>
 </html>

diff --git a/team.html b/team.html
@@ -8,7 +8,7 @@
 <link rel="icon" href="img/favicon.png?v=854864cd"><link rel="apple-touch-icon" href="img/apple-touch-icon.png?v=19c18a29">
 <link rel="preconnect" href="https://fonts.googleapis.com"><link rel="preconnect" href="https://fonts.gstatic.com" crossorigin>
 <link href="https://fonts.googleapis.com/css2?family=Cormorant+Garamond:ital,wght@0,400;0,500;0,600;0,700;1,400;1,500&family=Inter:wght@400;500;600;700&display=swap" rel="stylesheet">
-<link rel="stylesheet" href="css/style.css?v=58"><link rel="stylesheet" href="css/checkout.css?v=4">
+<link rel="stylesheet" href="css/style.css?v=59"><link rel="stylesheet" href="css/checkout.css?v=4">
 </head>
 <body data-page="team">
 <div class="page-head wrap"><span class="eyebrow">About us</span><h1>The people behind the salt.</h1>
@@ -35,6 +35,6 @@
   <div class="box"><span class="eyebrow">Say hello</span><h3 style="margin-top:12px">Contact us</h3><p style="color:var(--muted)">Questions, ideas, a blend you wish we made.</p><a class="link" href="contact.html">Get in touch</a></div>
   <div class="box"><span class="eyebrow">Our story</span><h3 style="margin-top:12px">Why we started</h3><p style="color:var(--muted)">Salt is on every table. We wanted it to do a little more.</p><a class="link" href="story.html">Read our story</a></div>
 </div></section>
-<script src="js/data.js?v=60"></script><script src="js/app.js?v=62"></script>
+<script src="js/data.js?v=61"></script><script src="js/app.js?v=63"></script>
 </body>
 </html>

diff --git a/story.html b/story.html
@@ -8,7 +8,7 @@
 <link rel="icon" href="img/favicon.png?v=854864cd"><link rel="apple-touch-icon" href="img/apple-touch-icon.png?v=19c18a29">
 <link rel="preconnect" href="https://fonts.googleapis.com"><link rel="preconnect" href="https://fonts.gstatic.com" crossorigin>
 <link href="https://fonts.googleapis.com/css2?family=Cormorant+Garamond:ital,wght@0,400;0,500;0,600;0,700;1,400;1,500&family=Inter:wght@400;500;600;700&display=swap" rel="stylesheet">
-<link rel="stylesheet" href="css/style.css?v=58"><link rel="stylesheet" href="css/checkout.css?v=4">
+<link rel="stylesheet" href="css/style.css?v=59"><link rel="stylesheet" href="css/checkout.css?v=4">
 </head>
 <body data-page="story">
 
@@ -55,6 +55,6 @@
     <div class="set" style="padding:26px"><h3>Read every ingredient</h3><p style="color:var(--muted);margin-top:10px">Short lists, plain names, and a page that explains every one of them.</p></div>
     <div class="set" style="padding:26px"><h3>Made to stay on the table</h3><p style="color:var(--muted);margin-top:10px">Glass jars and wood lids you won’t hide in a cupboard.</p></div>
   </div></div></section>
-<script src="js/data.js?v=60"></script><script src="js/app.js?v=62"></script>
+<script src="js/data.js?v=61"></script><script src="js/app.js?v=63"></script>
 </body>
 </html>

diff --git a/policies.html b/policies.html
@@ -8,7 +8,7 @@
 <link rel="icon" href="img/favicon.png?v=854864cd"><link rel="apple-touch-icon" href="img/apple-touch-icon.png?v=19c18a29">
 <link rel="preconnect" href="https://fonts.googleapis.com"><link rel="preconnect" href="https://fonts.gstatic.com" crossorigin>
 <link href="https://fonts.googleapis.com/css2?family=Cormorant+Garamond:ital,wght@0,400;0,500;0,600;0,700;1,400;1,500&family=Inter:wght@400;500;600;700&display=swap" rel="stylesheet">
-<link rel="stylesheet" href="css/style.css?v=58"><link rel="stylesheet" href="css/checkout.css?v=4">
+<link rel="stylesheet" href="css/style.css?v=59"><link rel="stylesheet" href="css/checkout.css?v=4">
 </head>
 <body data-page="policies">
 
@@ -42,7 +42,7 @@
     <p>We want everyone to be able to use this site, including with a screen reader or keyboard. If anything gets in your way, tell us and we’ll fix it, and we’ll take your order by email or phone in the meantime.</p></article>
   </div>
 </div></section>
-<script src="js/data.js?v=60"></script><script src="js/app.js?v=62"></script>
+<script src="js/data.js?v=61"></script><script src="js/app.js?v=63"></script>
 <script>
 (function () {
   const box = document.getElementById('optout'), msg = document.querySelector('.pc-msg');

diff --git a/product.html b/product.html
@@ -8,7 +8,7 @@
 <link rel="icon" href="img/favicon.png?v=854864cd"><link rel="apple-touch-icon" href="img/apple-touch-icon.png?v=19c18a29">
 <link rel="preconnect" href="https://fonts.googleapis.com"><link rel="preconnect" href="https://fonts.gstatic.com" crossorigin>
 <link href="https://fonts.googleapis.com/css2?family=Cormorant+Garamond:ital,wght@0,400;0,500;0,600;0,700;1,400;1,500&family=Inter:wght@400;500;600;700&display=swap" rel="stylesheet">
-<link rel="stylesheet" href="css/style.css?v=58"><link rel="stylesheet" href="css/checkout.css?v=4">
+<link rel="stylesheet" href="css/style.css?v=59"><link rel="stylesheet" href="css/checkout.css?v=4">
 </head>
 <body data-page="product">
 
@@ -16,6 +16,6 @@
 <section style="padding-top:20px;background:#fff"><div class="wrap">
   <div class="section-head"><div><span class="eyebrow">Complete the table</span><h2 style="margin-top:12px">Pairs well with</h2></div><a class="link" href="shop.html">Shop all</a></div>
   <div class="grid5" id="related" style="grid-template-columns:repeat(4,1fr)"></div></div></section>
-<script src="js/data.js?v=60"></script><script src="js/app.js?v=62"></script>
+<script src="js/data.js?v=61"></script><script src="js/app.js?v=63"></script>
 </body>
 </html>

diff --git a/affiliates.html b/affiliates.html
@@ -8,7 +8,7 @@
 <link rel="icon" href="img/favicon.png?v=854864cd"><link rel="apple-touch-icon" href="img/apple-touch-icon.png?v=19c18a29">
 <link rel="preconnect" href="https://fonts.googleapis.com"><link rel="preconnect" href="https://fonts.gstatic.com" crossorigin>
 <link href="https://fonts.googleapis.com/css2?family=Cormorant+Garamond:ital,wght@0,400;0,500;0,600;0,700;1,400;1,500&family=Inter:wght@400;500;600;700&display=swap" rel="stylesheet">
-<link rel="stylesheet" href="css/style.css?v=58"><link rel="stylesheet" href="css/checkout.css?v=4">
+<link rel="stylesheet" href="css/style.css?v=59"><link rel="stylesheet" href="css/checkout.css?v=4">
 </head>
 <body data-page="affiliates">
 <div class="page-head wrap"><span class="eyebrow">Affiliate program</span><h1>Share the salt. Earn on every order.</h1>
@@ -40,6 +40,6 @@
     <label>How would you share Sapphire Salt?<textarea name="how" id="a-how" rows="3"></textarea></label>
     <button class="btn">Apply</button><p class="form-ok" hidden></p></form>
 </div></section>
-<script src="js/data.js?v=60"></script><script src="js/app.js?v=62"></script>
+<script src="js/data.js?v=61"></script><script src="js/app.js?v=63"></script>
 </body>
 </html>

diff --git a/contact.html b/contact.html
@@ -8,7 +8,7 @@
 <link rel="icon" href="img/favicon.png?v=854864cd"><link rel="apple-touch-icon" href="img/apple-touch-icon.png?v=19c18a29">
 <link rel="preconnect" href="https://fonts.googleapis.com"><link rel="preconnect" href="https://fonts.gstatic.com" crossorigin>
 <link href="https://fonts.googleapis.com/css2?family=Cormorant+Garamond:ital,wght@0,400;0,500;0,600;0,700;1,400;1,500&family=Inter:wght@400;500;600;700&display=swap" rel="stylesheet">
-<link rel="stylesheet" href="css/style.css?v=58"><link rel="stylesheet" href="css/checkout.css?v=4">
+<link rel="stylesheet" href="css/style.css?v=59"><link rel="stylesheet" href="css/checkout.css?v=4">
 </head>
 <body data-page="contact">
 <div class="page-head wrap"><span class="eyebrow">Contact</span><h1>Talk to a real person.</h1>
@@ -49,6 +49,6 @@
     <button class="btn">Send request</button><p class="form-ok" hidden></p></form></div>
   <div class="cpanel" data-t="help" hidden><div class="helpme" id="helpme"></div></div>
 </div></section>
-<script src="js/data.js?v=60"></script><script src="js/app.js?v=62"></script>
+<script src="js/data.js?v=61"></script><script src="js/app.js?v=63"></script>
 </body>
 </html>

diff --git a/process.html b/process.html
@@ -8,7 +8,7 @@
 <link rel="icon" href="img/favicon.png?v=854864cd"><link rel="apple-touch-icon" href="img/apple-touch-icon.png?v=19c18a29">
 <link rel="preconnect" href="https://fonts.googleapis.com"><link rel="preconnect" href="https://fonts.gstatic.com" crossorigin>
 <link href="https://fonts.googleapis.com/css2?family=Cormorant+Garamond:ital,wght@0,400;0,500;0,600;0,700;1,400;1,500&family=Inter:wght@400;500;600;700&display=swap" rel="stylesheet">
-<link rel="stylesheet" href="css/style.css?v=58"><link rel="stylesheet" href="css/checkout.css?v=4">
+<link rel="stylesheet" href="css/style.css?v=59"><link rel="stylesheet" href="css/checkout.css?v=4">
 </head>
 <body data-page="process">
 
@@ -81,6 +81,6 @@
     <details><summary>What’s the lot number for?</summary><div class="in-a"><p>It ties your jar to its batch of salt and its lab report, and lets us trace anything back to the source.</p></div></details>
   </div>
 </div></section>
-<script src="js/data.js?v=60"></script><script src="js/app.js?v=62"></script>
+<script src="js/data.js?v=61"></script><script src="js/app.js?v=63"></script>
 </body>
 </html>
